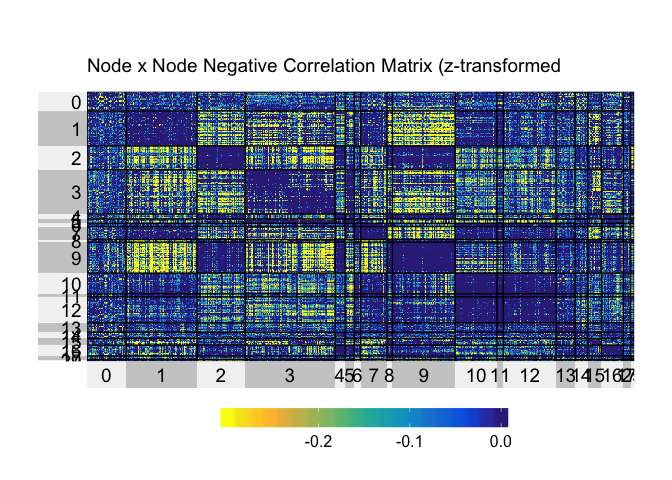
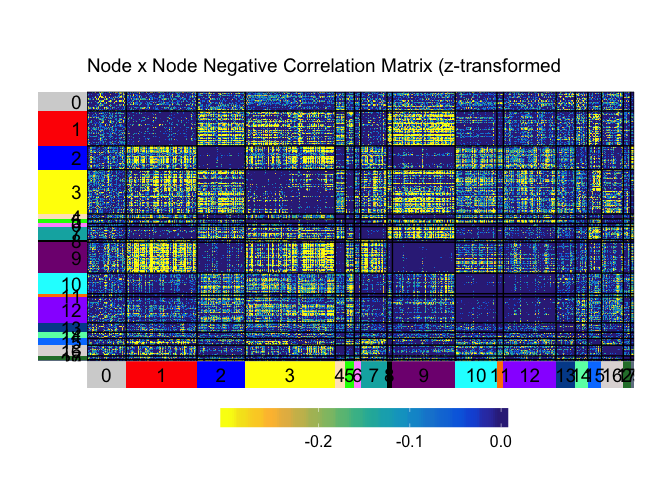
update color

Changed region(s): [[0.0312, 0.1875, 0.9688, 0.8125]]

diff --git a/cifti/cifti_MSC_r.md b/cifti/cifti_MSC_r.md
@@ -180,8 +180,8 @@ ss_pos <- superheat::superheat(X = z_pos,
                      y.axis.reverse = TRUE,
                      membership.rows = parlabel$community,
                      membership.cols = parlabel$community,
-                     left.label.col=plotlabel$Color,
-                     bottom.label.col=plotlabel$Color,
+                     left.label.col=plotlabel$color,
+                     bottom.label.col=plotlabel$color,
                      extreme.values.na = FALSE,
                      heat.lim = c(0, .3), 
                      heat.pal = parula(20),
@@ -197,8 +197,8 @@ ss_neg <- superheat::superheat(X = z_neg,
                      y.axis.reverse = TRUE,
                      membership.rows = parlabel$community,
                      membership.cols = parlabel$community,
-                     left.label.col=plotlabel$Color,
-                     bottom.label.col=plotlabel$Color,
+                     left.label.col=plotlabel$color,
+                     bottom.label.col=plotlabel$color,
                      extreme.values.na = FALSE,
                      heat.lim = c(-.3, 0), 
                      heat.pal = rev(parula(20)),
